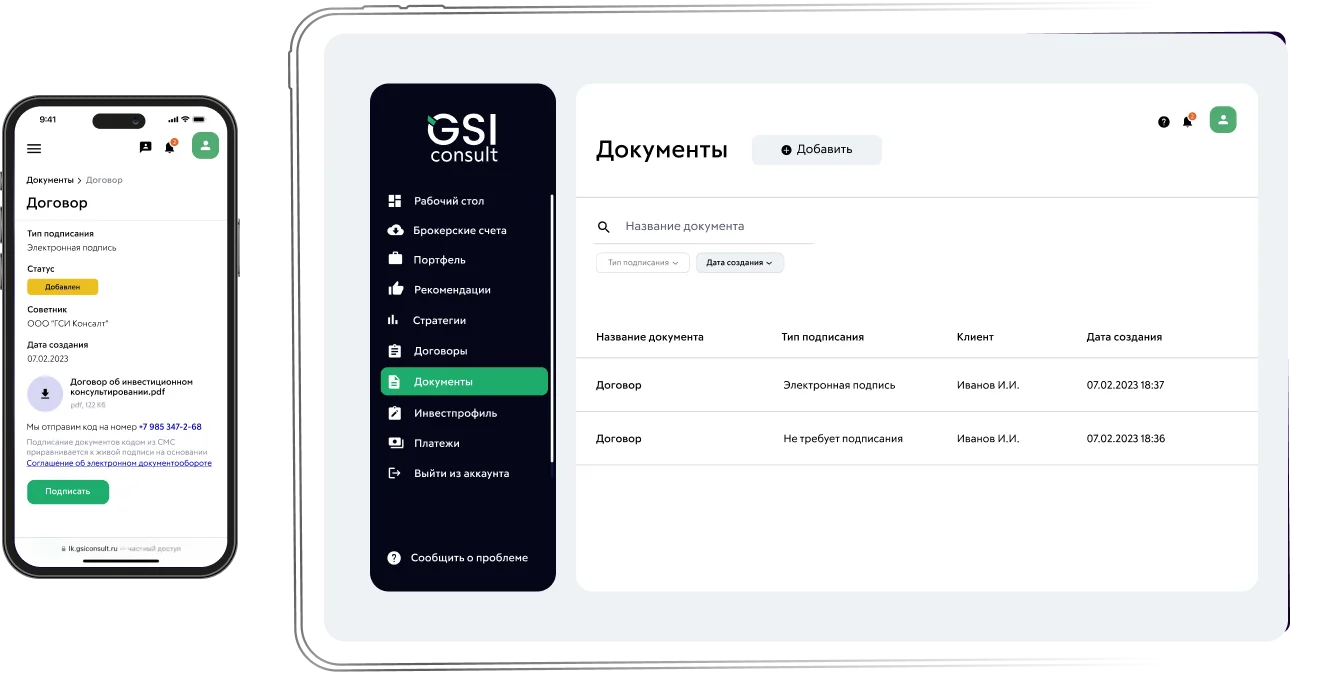
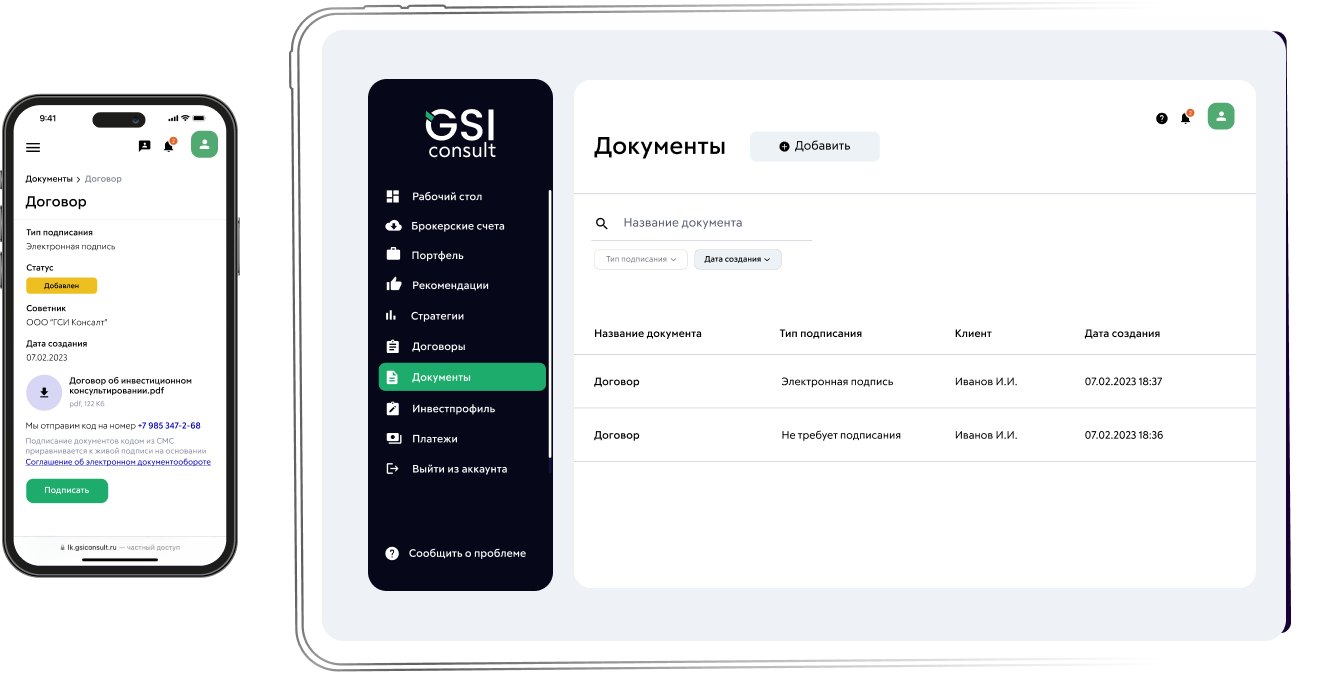
btns and bew image

diff --git a/index.html b/index.html
@@ -465,22 +465,22 @@
 				<div class="new_slider_desk">
 					<div class="new_slider_desk_for">
 						<div class="new_slider_desk_for_item">
-							<img src="new_block/desk_1.png">
+							<img src="new_block/desk_1.webp">
 						</div>
 						<div class="new_slider_desk_for_item">
-							<img src="new_block/desk_2.png">
+							<img src="new_block/desk_2.webp">
 						</div>
 						<div class="new_slider_desk_for_item">
-							<img src="new_block/desk_3.png">
+							<img src="new_block/desk_3.webp">
 						</div>
 						<div class="new_slider_desk_for_item">
-							<img src="new_block/desk_4.png">
+							<img src="new_block/desk_4.webp">
 						</div>
 						<div class="new_slider_desk_for_item">
-							<img src="new_block/desk_5.png">
+							<img src="new_block/desk_5.webp">
 						</div>
 						<div class="new_slider_desk_for_item">
-							<img src="new_block/desk_6.png">
+							<img src="new_block/desk_6.webp">
 						</div>
 					</div>
 					<div class="new_slider_desk_nav">
@@ -534,7 +534,7 @@
 								<h5>Глобальные инвестиции</h5>
 								<p>В основе стратегии заложена диверсификация в быстрорастущие сектора, такие как: искусственный интеллект, высокие технологии и др. </p>
 							</div>
-							<a href="#n_7_row_form" class="anchor strategy_block_list_item_btn">
+							<a href="#n_7_row_form" class="anchor strategy_block_list_item_btn button_green">
 								<span>Оформить подписку</span>
 							</a>
 						</div>
@@ -550,7 +550,7 @@
 								<h5>Дивидендный 2023</h5>
 								<p>Портфель для получения дивидендного дохода от владения высоколиквидными акциями. </p>
 							</div>
-							<a href="#n_7_row_form" class="anchor strategy_block_list_item_btn">
+							<a href="#n_7_row_form" class="anchor strategy_block_list_item_btn button_green">
 								<span>Оформить подписку</span>
 							</a>
 						</div>
@@ -566,7 +566,7 @@
 								<h5>Российские технологии</h5>
 								<p>Эта среднесрочная стратегия даёт вам возможность достичь своих целей уже через год после вложений.</p>
 							</div>
-							<a href="#n_7_row_form" class="anchor strategy_block_list_item_btn">
+							<a href="#n_7_row_form" class="anchor strategy_block_list_item_btn button_green">
 								<span>Оформить подписку</span>
 							</a>
 						</div>
@@ -582,7 +582,7 @@
 								<h5>Сохраняй</h5>
 								<p>Портфель предназначен для инвесторов, которые ориентированны на долгосрочные инвестиции.</p>
 							</div>
-							<a href="#n_7_row_form" class="anchor strategy_block_list_item_btn">
+							<a href="#n_7_row_form" class="anchor strategy_block_list_item_btn button_green">
 								<span>Оформить подписку</span>
 							</a>
 						</div>

diff --git a/css/slider.css b/css/slider.css
@@ -782,3 +782,59 @@ body {
         min-width: calc(25% - 15px);
     }
 }
+
+
+.strategy_block_list_item_btn {
+    position: relative;
+    overflow: hidden;
+}
+
+.strategy_block_list_item_btn.button_green::before {
+    content: "";
+    position: absolute;
+    left: 50%;
+    top: 50%;
+    width: 0;
+    height: 0;
+    border-radius: 50%;
+    background: rgba(207,252,231,.17);
+    -webkit-transform: translate(-50%,-50%);
+    -ms-transform: translate(-50%,-50%);
+    transform: translate(-50%,-50%);
+    -webkit-transition: .4s all ease;
+    -o-transition: .4s all ease;
+    transition: .4s all ease;
+}
+
+.strategy_block_list_item_btn.button_green::after {
+    content: "";
+    position: absolute;
+    left: 50%;
+    top: 50%;
+    width: 0;
+    height: 0;
+    border-radius: 50%;
+    background: rgba(207,252,231,.17);
+    -webkit-transform: translate(-50%,-50%);
+    -ms-transform: translate(-50%,-50%);
+    transform: translate(-50%,-50%);
+    -webkit-transition: .4s all ease;
+    -o-transition: .4s all ease;
+    transition: .4s all ease;
+}
+
+.strategy_block_list_item_btn.button_green:hover::before {
+    width: 108px;
+    height: 94px;
+    -webkit-transition: .4s all ease;
+    -o-transition: .4s all ease;
+    transition: .4s all ease;
+}
+
+.strategy_block_list_item_btn.button_green:hover::after {
+    width: 201px;
+    height: 133px;
+    -webkit-transition: .4s all ease;
+    -o-transition: .4s all ease;
+    transition: .4s all ease;
+}
